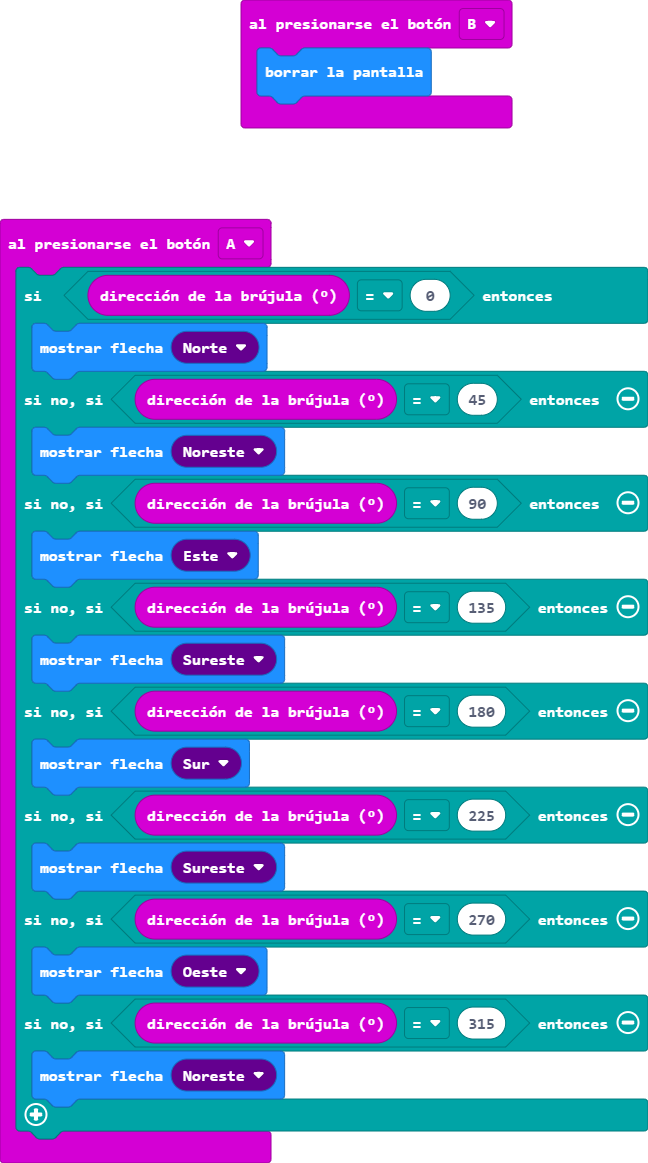
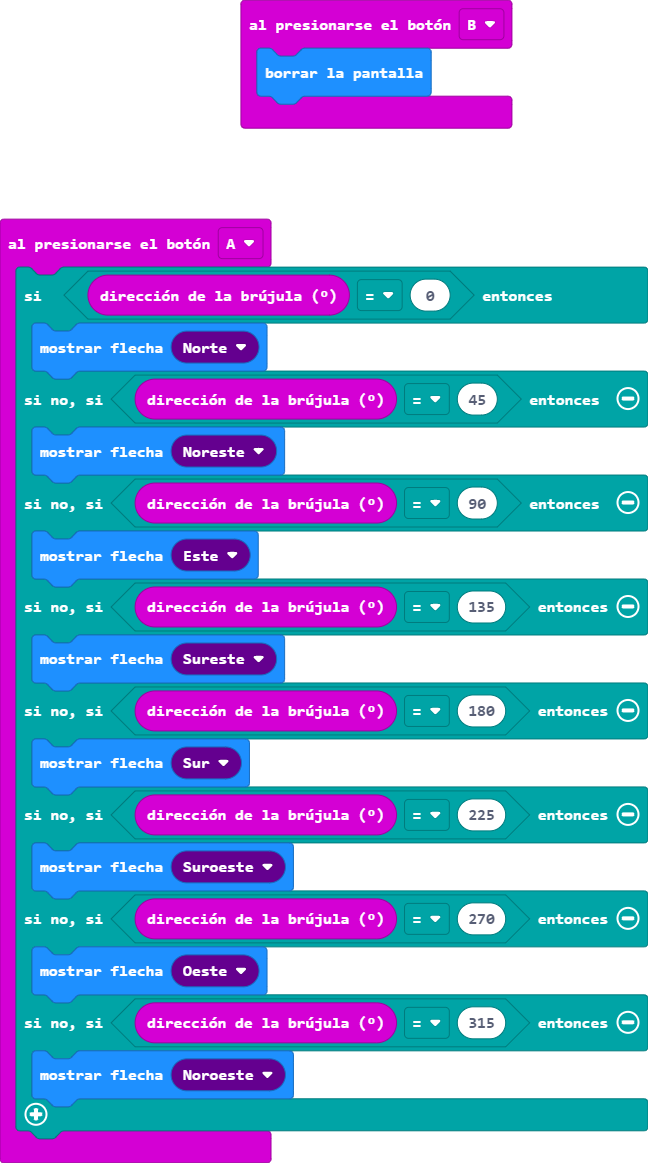
Actualizar main.blocks, main.ts

diff --git a/main.ts b/main.ts
@@ -10,11 +10,11 @@ input.onButtonPressed(Button.A, function () {
     } else if (input.compassHeading() == 180) {
         basic.showArrow(ArrowNames.South)
     } else if (input.compassHeading() == 225) {
-        basic.showArrow(ArrowNames.SouthEast)
+        basic.showArrow(ArrowNames.SouthWest)
     } else if (input.compassHeading() == 270) {
         basic.showArrow(ArrowNames.West)
     } else if (input.compassHeading() == 315) {
-        basic.showArrow(ArrowNames.NorthEast)
+        basic.showArrow(ArrowNames.NorthWest)
     }
 })
 input.onButtonPressed(Button.B, function () {
